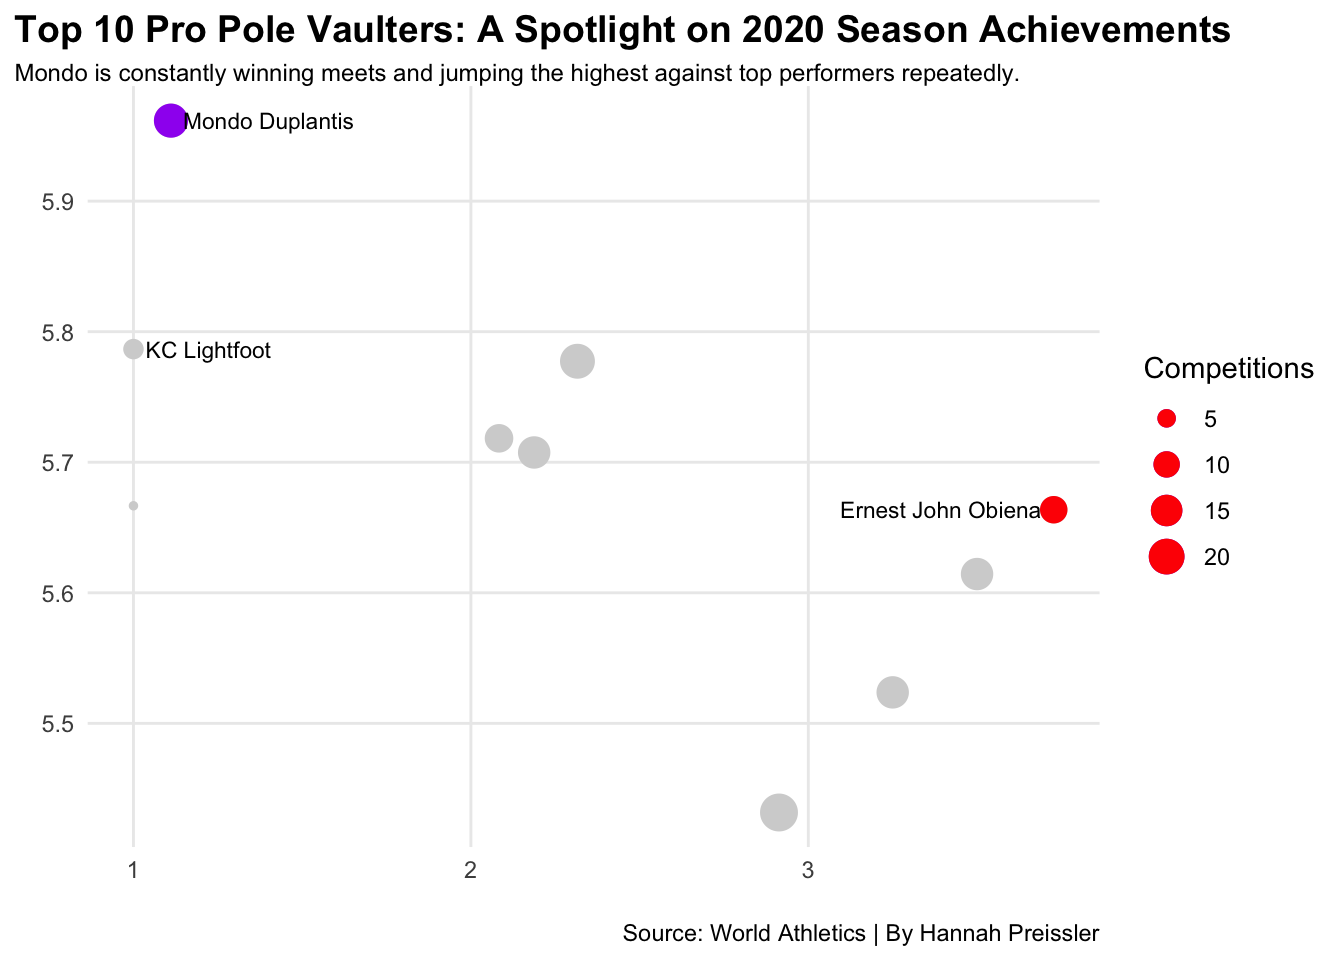
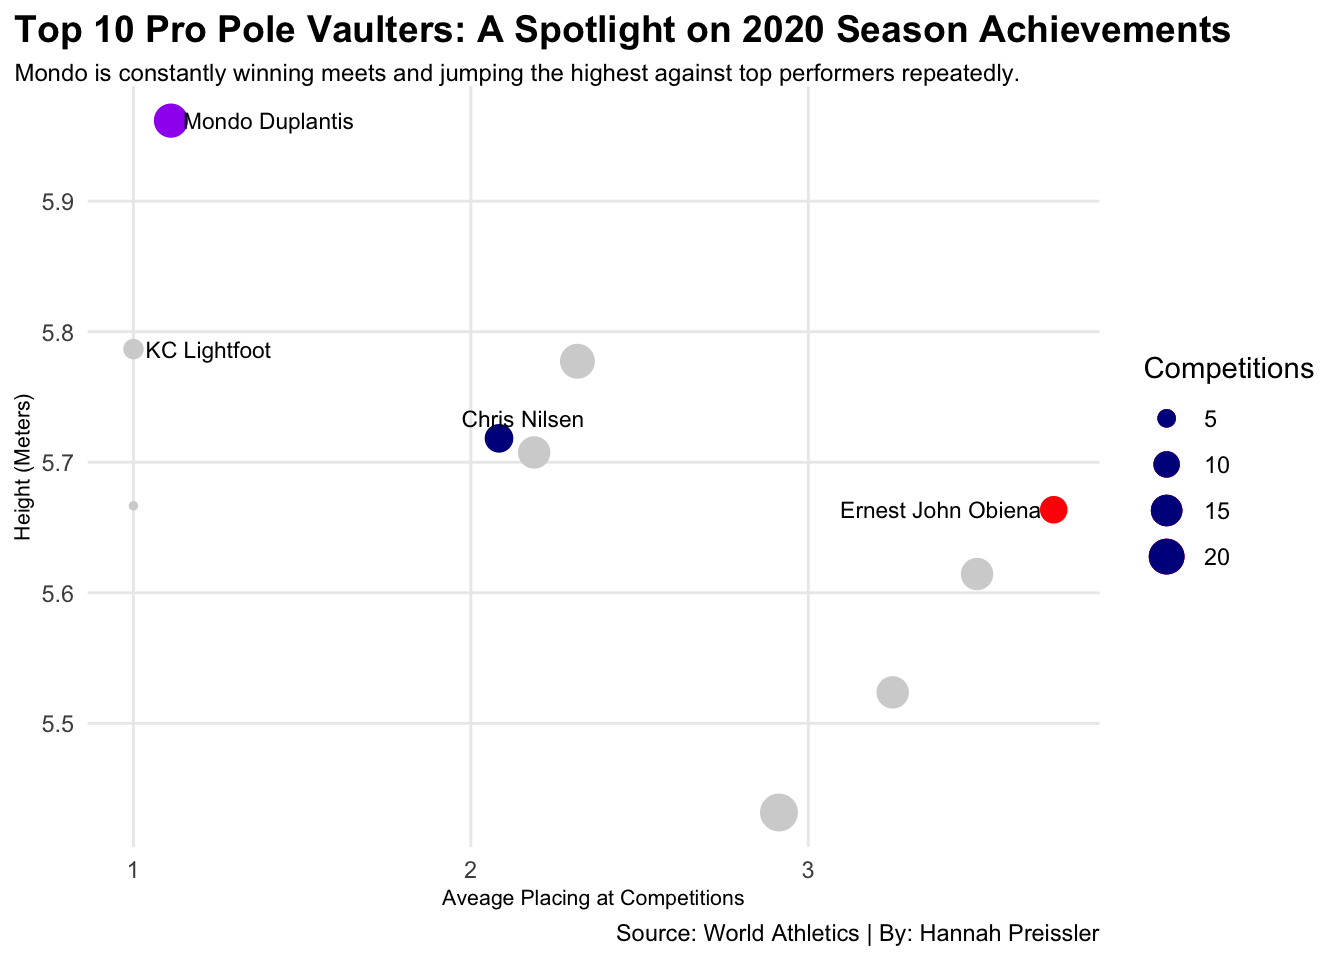
Draft #2

diff --git a/posts/mondo-is-the-best-pole-vaulter-in-the-world/index.html b/posts/mondo-is-the-best-pole-vaulter-in-the-world/index.html
@@ -9,7 +9,7 @@
 <meta name="author" content="Hananh Preissler">
 <meta name="dcterms.date" content="2023-12-03">
 
-<title>Hannah Preissler’s Sports Data BLog - Title</title>
+<title>Hannah Preissler’s Sports Data BLog - Why is Mondo Duplantis the Best Pole Vaulter in the World?</title>
 <style>
 code{white-space: pre-wrap;}
 span.smallcaps{font-variant: small-caps;}
@@ -137,7 +137,7 @@ pre > code.sourceCode > span > a:first-child::before { text-decoration: underlin
 <header id="title-block-header" class="quarto-title-block default page-columns page-full">
   <div class="quarto-title-banner page-columns page-full">
     <div class="quarto-title column-body">
-      <h1 class="title">Title</h1>
+      <h1 class="title">Why is Mondo Duplantis the Best Pole Vaulter in the World?</h1>
                                 <div class="quarto-categories">
                 <div class="quarto-category">trackfield</div>
                 <div class="quarto-category">polevault</div>
@@ -177,6 +177,9 @@ pre > code.sourceCode > span > a:first-child::before { text-decoration: underlin
 
 
 
+<p>Who is Armand ‘Mondo’ Duplantis?</p>
+<p>Mondo Duplantis is a Swedish-American pole vaulter taht has taken the sport to new hights, constantly raising the bar and breaking his own world records again and again. Mondo began his vaulting career at the young age of four. His father, Greg Duplantis, was an All-American pole vaulter at LSU and sparked Mondo’s passion at a very young age. His remarkable charted progression goes all the way back to when he was six years old. There is no other vaulter in the world that has a record this detailed.</p>
+<p>Let’s breakdown what makes Mondo the best pole vaulter in the world.</p>
 <div class="cell">
 <details>
 <summary>Code</summary>
@@ -240,7 +243,7 @@ pre > code.sourceCode > span > a:first-child::before { text-decoration: underlin
 <span id="cb1-58"><a href="#cb1-58" aria-hidden="true" tabindex="-1"></a>    <span class="at">subtitle =</span><span class="st">"Mondo's career highlighted by three distinct eras: pre-high school, the 6 meter barrier, and breaking the world record."</span>, </span>
 <span id="cb1-59"><a href="#cb1-59" aria-hidden="true" tabindex="-1"></a>    <span class="at">y=</span><span class="st">"Height in Meters"</span>, </span>
 <span id="cb1-60"><a href="#cb1-60" aria-hidden="true" tabindex="-1"></a>    <span class="at">x=</span><span class="st">""</span>,</span>
-<span id="cb1-61"><a href="#cb1-61" aria-hidden="true" tabindex="-1"></a>    <span class="at">caption=</span><span class="st">"Source: World Athletics | By Hannah Preissler"</span>) <span class="sc">+</span></span>
+<span id="cb1-61"><a href="#cb1-61" aria-hidden="true" tabindex="-1"></a>    <span class="at">caption=</span><span class="st">"Source: World Athletics | By: Hannah Preissler"</span>) <span class="sc">+</span></span>
 <span id="cb1-62"><a href="#cb1-62" aria-hidden="true" tabindex="-1"></a>  <span class="fu">theme_minimal</span>() <span class="sc">+</span></span>
 <span id="cb1-63"><a href="#cb1-63" aria-hidden="true" tabindex="-1"></a>  <span class="fu">theme</span>(</span>
 <span id="cb1-64"><a href="#cb1-64" aria-hidden="true" tabindex="-1"></a>    <span class="at">plot.title =</span> <span class="fu">element_text</span>(<span class="at">size =</span> <span class="dv">12</span>, <span class="at">face =</span> <span class="st">"bold"</span>),</span>
@@ -270,7 +273,7 @@ pre > code.sourceCode > span > a:first-child::before { text-decoration: underlin
 <span id="cb2-11"><a href="#cb2-11" aria-hidden="true" tabindex="-1"></a>mondocomps <span class="ot">&lt;-</span> competitionresults <span class="sc">|&gt;</span> </span>
 <span id="cb2-12"><a href="#cb2-12" aria-hidden="true" tabindex="-1"></a>  <span class="fu">filter</span>(Name <span class="sc">==</span> <span class="st">"Mondo Duplantis"</span>)</span>
 <span id="cb2-13"><a href="#cb2-13" aria-hidden="true" tabindex="-1"></a>chriscomps <span class="ot">&lt;-</span> competitionresults <span class="sc">|&gt;</span></span>
-<span id="cb2-14"><a href="#cb2-14" aria-hidden="true" tabindex="-1"></a>  <span class="fu">filter</span>(Name <span class="sc">==</span> <span class="st">"Chris Nilsen"</span>)</span>
+<span id="cb2-14"><a href="#cb2-14" aria-hidden="true" tabindex="-1"></a>  <span class="fu">filter</span>(<span class="fu">str_trim</span>(Name) <span class="sc">==</span> <span class="st">"Chris Nilsen"</span>)</span>
 <span id="cb2-15"><a href="#cb2-15" aria-hidden="true" tabindex="-1"></a>ernestcomps <span class="ot">&lt;-</span> competitionresults <span class="sc">|&gt;</span></span>
 <span id="cb2-16"><a href="#cb2-16" aria-hidden="true" tabindex="-1"></a>  <span class="fu">filter</span>(Name <span class="sc">==</span> <span class="st">"Ernest John Obiena"</span>)</span>
 <span id="cb2-17"><a href="#cb2-17" aria-hidden="true" tabindex="-1"></a>kccomps <span class="ot">&lt;-</span> competitionresults <span class="sc">|&gt;</span></span>
@@ -280,29 +283,29 @@ pre > code.sourceCode > span > a:first-child::before { text-decoration: underlin
 <span id="cb2-21"><a href="#cb2-21" aria-hidden="true" tabindex="-1"></a>  <span class="fu">geom_point</span>(<span class="at">data=</span>competitionresults,<span class="fu">aes</span>(<span class="at">x=</span>AvgPlace, <span class="at">y=</span>AvgResult, <span class="at">size=</span> Competitions), <span class="at">color=</span><span class="st">"lightgrey"</span>)<span class="sc">+</span></span>
 <span id="cb2-22"><a href="#cb2-22" aria-hidden="true" tabindex="-1"></a>  <span class="fu">geom_point</span>(<span class="at">data=</span>mondocomps, <span class="fu">aes</span>(<span class="at">x=</span>AvgPlace, <span class="at">y=</span>AvgResult, <span class="at">size=</span> Competitions), <span class="at">color=</span><span class="st">"purple"</span>)<span class="sc">+</span></span>
 <span id="cb2-23"><a href="#cb2-23" aria-hidden="true" tabindex="-1"></a>  <span class="fu">geom_point</span>(<span class="at">data=</span>ernestcomps, <span class="fu">aes</span>(<span class="at">x=</span>AvgPlace, <span class="at">y=</span>AvgResult, <span class="at">size=</span> Competitions), <span class="at">color=</span><span class="st">"red"</span>)<span class="sc">+</span></span>
-<span id="cb2-24"><a href="#cb2-24" aria-hidden="true" tabindex="-1"></a>  <span class="fu">geom_text_repel</span>(<span class="at">data=</span>mondocomps, <span class="fu">aes</span>(<span class="at">x=</span>AvgPlace, <span class="at">y=</span>AvgResult, <span class="at">label=</span>Name), <span class="at">size =</span> <span class="dv">3</span>) <span class="sc">+</span></span>
-<span id="cb2-25"><a href="#cb2-25" aria-hidden="true" tabindex="-1"></a>  <span class="fu">geom_text_repel</span>(<span class="at">data=</span>chriscomps, <span class="fu">aes</span>(<span class="at">x=</span>AvgPlace, <span class="at">y=</span>AvgResult, <span class="at">label=</span>Name), <span class="at">size =</span> <span class="dv">3</span>) <span class="sc">+</span></span>
-<span id="cb2-26"><a href="#cb2-26" aria-hidden="true" tabindex="-1"></a>  <span class="fu">geom_text_repel</span>(<span class="at">data=</span>ernestcomps, <span class="fu">aes</span>(<span class="at">x=</span>AvgPlace, <span class="at">y=</span>AvgResult, <span class="at">label=</span>Name), <span class="at">size =</span> <span class="dv">3</span>) <span class="sc">+</span></span>
-<span id="cb2-27"><a href="#cb2-27" aria-hidden="true" tabindex="-1"></a>  <span class="fu">geom_text_repel</span>(<span class="at">data=</span>kccomps, <span class="fu">aes</span>(<span class="at">x=</span>AvgPlace, <span class="at">y=</span>AvgResult, <span class="at">label=</span>Name), <span class="at">size =</span> <span class="dv">3</span>) <span class="sc">+</span></span>
-<span id="cb2-28"><a href="#cb2-28" aria-hidden="true" tabindex="-1"></a>    <span class="fu">labs</span>(<span class="at">title =</span> <span class="st">"Top 10 Pro Pole Vaulters: A Spotlight on 2020 Season Achievements"</span>, </span>
-<span id="cb2-29"><a href="#cb2-29" aria-hidden="true" tabindex="-1"></a>    <span class="at">subtitle =</span><span class="st">"Mondo is constantly winning meets and jumping the highest against top performers repeatedly."</span>, </span>
-<span id="cb2-30"><a href="#cb2-30" aria-hidden="true" tabindex="-1"></a>    <span class="at">y=</span><span class="st">""</span>, </span>
-<span id="cb2-31"><a href="#cb2-31" aria-hidden="true" tabindex="-1"></a>    <span class="at">x=</span><span class="st">""</span>,</span>
-<span id="cb2-32"><a href="#cb2-32" aria-hidden="true" tabindex="-1"></a>    <span class="at">caption=</span><span class="st">"Source: World Athletics | By Hannah Preissler"</span>) <span class="sc">+</span></span>
-<span id="cb2-33"><a href="#cb2-33" aria-hidden="true" tabindex="-1"></a>  <span class="fu">theme_minimal</span>() <span class="sc">+</span></span>
-<span id="cb2-34"><a href="#cb2-34" aria-hidden="true" tabindex="-1"></a>  <span class="fu">theme</span>(</span>
-<span id="cb2-35"><a href="#cb2-35" aria-hidden="true" tabindex="-1"></a>    <span class="at">plot.title =</span> <span class="fu">element_text</span>(<span class="at">size =</span> <span class="dv">14</span>, <span class="at">face =</span> <span class="st">"bold"</span>),</span>
-<span id="cb2-36"><a href="#cb2-36" aria-hidden="true" tabindex="-1"></a>    <span class="at">axis.title =</span> <span class="fu">element_text</span>(<span class="at">size =</span> <span class="dv">8</span>), </span>
-<span id="cb2-37"><a href="#cb2-37" aria-hidden="true" tabindex="-1"></a>    <span class="at">plot.subtitle =</span> <span class="fu">element_textbox_simple</span>(<span class="at">size=</span><span class="dv">9</span>), </span>
-<span id="cb2-38"><a href="#cb2-38" aria-hidden="true" tabindex="-1"></a>    <span class="at">panel.grid.minor =</span> <span class="fu">element_blank</span>(),</span>
-<span id="cb2-39"><a href="#cb2-39" aria-hidden="true" tabindex="-1"></a>    <span class="at">plot.title.position =</span> <span class="st">"plot"</span></span>
-<span id="cb2-40"><a href="#cb2-40" aria-hidden="true" tabindex="-1"></a>  )</span></code><button title="Copy to Clipboard" class="code-copy-button"><i class="bi"></i></button></pre></div>
+<span id="cb2-24"><a href="#cb2-24" aria-hidden="true" tabindex="-1"></a>   <span class="fu">geom_point</span>(<span class="at">data=</span>chriscomps, <span class="fu">aes</span>(<span class="at">x=</span>AvgPlace, <span class="at">y=</span>AvgResult, <span class="at">size=</span> Competitions), <span class="at">color=</span><span class="st">"darkblue"</span>)<span class="sc">+</span></span>
+<span id="cb2-25"><a href="#cb2-25" aria-hidden="true" tabindex="-1"></a>  <span class="fu">geom_text_repel</span>(<span class="at">data=</span>mondocomps, <span class="fu">aes</span>(<span class="at">x=</span>AvgPlace, <span class="at">y=</span>AvgResult, <span class="at">label=</span>Name), <span class="at">size =</span> <span class="dv">3</span>) <span class="sc">+</span></span>
+<span id="cb2-26"><a href="#cb2-26" aria-hidden="true" tabindex="-1"></a>  <span class="fu">geom_text_repel</span>(<span class="at">data=</span>chriscomps, <span class="fu">aes</span>(<span class="at">x=</span>AvgPlace, <span class="at">y=</span>AvgResult, <span class="at">label=</span>Name), <span class="at">size =</span> <span class="dv">3</span>) <span class="sc">+</span></span>
+<span id="cb2-27"><a href="#cb2-27" aria-hidden="true" tabindex="-1"></a>  <span class="fu">geom_text_repel</span>(<span class="at">data=</span>ernestcomps, <span class="fu">aes</span>(<span class="at">x=</span>AvgPlace, <span class="at">y=</span>AvgResult, <span class="at">label=</span>Name), <span class="at">size =</span> <span class="dv">3</span>) <span class="sc">+</span></span>
+<span id="cb2-28"><a href="#cb2-28" aria-hidden="true" tabindex="-1"></a>  <span class="fu">geom_text_repel</span>(<span class="at">data=</span>kccomps, <span class="fu">aes</span>(<span class="at">x=</span>AvgPlace, <span class="at">y=</span>AvgResult, <span class="at">label=</span>Name), <span class="at">size =</span> <span class="dv">3</span>) <span class="sc">+</span></span>
+<span id="cb2-29"><a href="#cb2-29" aria-hidden="true" tabindex="-1"></a>    <span class="fu">labs</span>(<span class="at">title =</span> <span class="st">"Top 10 Pro Pole Vaulters: A Spotlight on 2020 Season Achievements"</span>, </span>
+<span id="cb2-30"><a href="#cb2-30" aria-hidden="true" tabindex="-1"></a>    <span class="at">subtitle =</span><span class="st">"Mondo is constantly winning meets and jumping the highest against top performers repeatedly."</span>, </span>
+<span id="cb2-31"><a href="#cb2-31" aria-hidden="true" tabindex="-1"></a>    <span class="at">y=</span><span class="st">"Height (Meters)"</span>, </span>
+<span id="cb2-32"><a href="#cb2-32" aria-hidden="true" tabindex="-1"></a>    <span class="at">x=</span><span class="st">"Aveage Placing at Competitions"</span>,</span>
+<span id="cb2-33"><a href="#cb2-33" aria-hidden="true" tabindex="-1"></a>    <span class="at">caption=</span><span class="st">"Source: World Athletics | By: Hannah Preissler"</span>) <span class="sc">+</span></span>
+<span id="cb2-34"><a href="#cb2-34" aria-hidden="true" tabindex="-1"></a>  <span class="fu">theme_minimal</span>() <span class="sc">+</span></span>
+<span id="cb2-35"><a href="#cb2-35" aria-hidden="true" tabindex="-1"></a>  <span class="fu">theme</span>(</span>
+<span id="cb2-36"><a href="#cb2-36" aria-hidden="true" tabindex="-1"></a>    <span class="at">plot.title =</span> <span class="fu">element_text</span>(<span class="at">size =</span> <span class="dv">14</span>, <span class="at">face =</span> <span class="st">"bold"</span>),</span>
+<span id="cb2-37"><a href="#cb2-37" aria-hidden="true" tabindex="-1"></a>    <span class="at">axis.title =</span> <span class="fu">element_text</span>(<span class="at">size =</span> <span class="dv">8</span>), </span>
+<span id="cb2-38"><a href="#cb2-38" aria-hidden="true" tabindex="-1"></a>    <span class="at">plot.subtitle =</span> <span class="fu">element_textbox_simple</span>(<span class="at">size=</span><span class="dv">9</span>), </span>
+<span id="cb2-39"><a href="#cb2-39" aria-hidden="true" tabindex="-1"></a>    <span class="at">panel.grid.minor =</span> <span class="fu">element_blank</span>(),</span>
+<span id="cb2-40"><a href="#cb2-40" aria-hidden="true" tabindex="-1"></a>    <span class="at">plot.title.position =</span> <span class="st">"plot"</span></span>
+<span id="cb2-41"><a href="#cb2-41" aria-hidden="true" tabindex="-1"></a>  )</span></code><button title="Copy to Clipboard" class="code-copy-button"><i class="bi"></i></button></pre></div>
 </details>
 <div class="cell-output-display">
 <p><img src="index_files/figure-html/unnamed-chunk-2-1.png" class="img-fluid" width="672"></p>
 </div>
 </div>
-<p>Add label to mondo, color erenest and chris</p>
 <div class="cell">
 <details>
 <summary>Code</summary>
@@ -311,30 +314,33 @@ pre > code.sourceCode > span > a:first-child::before { text-decoration: underlin
 <span id="cb3-3"><a href="#cb3-3" aria-hidden="true" tabindex="-1"></a>  <span class="fu">mutate</span>(<span class="at">Meters =</span> <span class="fu">as.numeric</span>(<span class="fu">gsub</span>(<span class="st">" m"</span>,<span class="st">""</span>, Meters)))</span>
 <span id="cb3-4"><a href="#cb3-4" aria-hidden="true" tabindex="-1"></a></span>
 <span id="cb3-5"><a href="#cb3-5" aria-hidden="true" tabindex="-1"></a></span>
-<span id="cb3-6"><a href="#cb3-6" aria-hidden="true" tabindex="-1"></a><span class="fu">ggplot</span>() <span class="sc">+</span> </span>
-<span id="cb3-7"><a href="#cb3-7" aria-hidden="true" tabindex="-1"></a>  <span class="fu">geom_lollipop</span>(</span>
-<span id="cb3-8"><a href="#cb3-8" aria-hidden="true" tabindex="-1"></a>    <span class="at">data=</span>worldrecord, </span>
-<span id="cb3-9"><a href="#cb3-9" aria-hidden="true" tabindex="-1"></a>    <span class="fu">aes</span>(<span class="at">y=</span>Meters, <span class="at">x=</span>Date), </span>
-<span id="cb3-10"><a href="#cb3-10" aria-hidden="true" tabindex="-1"></a>    <span class="at">horizontal =</span> <span class="cn">FALSE</span>)<span class="sc">+</span></span>
-<span id="cb3-11"><a href="#cb3-11" aria-hidden="true" tabindex="-1"></a>  <span class="fu">labs</span>(<span class="at">title =</span> <span class="st">"Title"</span>, </span>
-<span id="cb3-12"><a href="#cb3-12" aria-hidden="true" tabindex="-1"></a>    <span class="at">subtitle =</span><span class="st">"Title"</span>, </span>
-<span id="cb3-13"><a href="#cb3-13" aria-hidden="true" tabindex="-1"></a>    <span class="at">y=</span><span class="st">""</span>, </span>
-<span id="cb3-14"><a href="#cb3-14" aria-hidden="true" tabindex="-1"></a>    <span class="at">x=</span><span class="st">""</span>,</span>
-<span id="cb3-15"><a href="#cb3-15" aria-hidden="true" tabindex="-1"></a>    <span class="at">caption=</span><span class="st">"Source: World Athletics | By Hannah Preissler"</span>) <span class="sc">+</span></span>
-<span id="cb3-16"><a href="#cb3-16" aria-hidden="true" tabindex="-1"></a>  <span class="fu">theme_minimal</span>() <span class="sc">+</span></span>
-<span id="cb3-17"><a href="#cb3-17" aria-hidden="true" tabindex="-1"></a>  <span class="fu">theme</span>(</span>
-<span id="cb3-18"><a href="#cb3-18" aria-hidden="true" tabindex="-1"></a>    <span class="at">plot.title =</span> <span class="fu">element_text</span>(<span class="at">size =</span> <span class="dv">14</span>, <span class="at">face =</span> <span class="st">"bold"</span>),</span>
-<span id="cb3-19"><a href="#cb3-19" aria-hidden="true" tabindex="-1"></a>    <span class="at">axis.title =</span> <span class="fu">element_text</span>(<span class="at">size =</span> <span class="dv">8</span>), </span>
-<span id="cb3-20"><a href="#cb3-20" aria-hidden="true" tabindex="-1"></a>    <span class="at">plot.subtitle =</span> <span class="fu">element_textbox_simple</span>(<span class="at">size=</span><span class="dv">9</span>), </span>
-<span id="cb3-21"><a href="#cb3-21" aria-hidden="true" tabindex="-1"></a>    <span class="at">panel.grid.minor =</span> <span class="fu">element_blank</span>(),</span>
-<span id="cb3-22"><a href="#cb3-22" aria-hidden="true" tabindex="-1"></a>    <span class="at">plot.title.position =</span> <span class="st">"plot"</span></span>
-<span id="cb3-23"><a href="#cb3-23" aria-hidden="true" tabindex="-1"></a>  )</span></code><button title="Copy to Clipboard" class="code-copy-button"><i class="bi"></i></button></pre></div>
+<span id="cb3-6"><a href="#cb3-6" aria-hidden="true" tabindex="-1"></a>sergeywr <span class="ot">&lt;-</span> worldrecord <span class="sc">|&gt;</span> </span>
+<span id="cb3-7"><a href="#cb3-7" aria-hidden="true" tabindex="-1"></a>  <span class="fu">filter</span>(Athlete <span class="sc">==</span> <span class="st">"Sergey Bubka"</span>)</span>
+<span id="cb3-8"><a href="#cb3-8" aria-hidden="true" tabindex="-1"></a>mondowr <span class="ot">&lt;-</span> worldrecord <span class="sc">|&gt;</span></span>
+<span id="cb3-9"><a href="#cb3-9" aria-hidden="true" tabindex="-1"></a>  <span class="fu">filter</span>(Athlete <span class="sc">==</span> <span class="st">"Armand Duplantis"</span>)</span>
+<span id="cb3-10"><a href="#cb3-10" aria-hidden="true" tabindex="-1"></a></span>
+<span id="cb3-11"><a href="#cb3-11" aria-hidden="true" tabindex="-1"></a><span class="fu">ggplot</span>() <span class="sc">+</span> </span>
+<span id="cb3-12"><a href="#cb3-12" aria-hidden="true" tabindex="-1"></a>  <span class="fu">geom_lollipop</span>(<span class="at">data=</span>worldrecord, <span class="fu">aes</span>(<span class="at">y=</span>Meters, <span class="at">x=</span>Date), <span class="at">horizontal =</span> <span class="cn">FALSE</span>, <span class="at">color =</span><span class="st">"grey"</span>)<span class="sc">+</span></span>
+<span id="cb3-13"><a href="#cb3-13" aria-hidden="true" tabindex="-1"></a>  <span class="fu">geom_lollipop</span>(<span class="at">data=</span>sergeywr, <span class="fu">aes</span>(<span class="at">y=</span>Meters, <span class="at">x=</span>Date), <span class="at">horizontal =</span> <span class="cn">FALSE</span>, <span class="at">color=</span><span class="st">"lightblue"</span>)<span class="sc">+</span></span>
+<span id="cb3-14"><a href="#cb3-14" aria-hidden="true" tabindex="-1"></a>   <span class="fu">geom_lollipop</span>(<span class="at">data=</span>mondowr, <span class="fu">aes</span>(<span class="at">y=</span>Meters, <span class="at">x=</span>Date), <span class="at">horizontal =</span> <span class="cn">FALSE</span>, <span class="at">color=</span><span class="st">"darkblue"</span>)<span class="sc">+</span></span>
+<span id="cb3-15"><a href="#cb3-15" aria-hidden="true" tabindex="-1"></a>  <span class="fu">labs</span>(<span class="at">title =</span> <span class="st">"Exploring the Progression of the Pole Vault World Record Holders"</span>, </span>
+<span id="cb3-16"><a href="#cb3-16" aria-hidden="true" tabindex="-1"></a>    <span class="at">subtitle =</span><span class="st">"Sergey Bubka and Mondo Duplantis have held the WR the most times of anyone."</span>, </span>
+<span id="cb3-17"><a href="#cb3-17" aria-hidden="true" tabindex="-1"></a>    <span class="at">y=</span><span class="st">"Height (Meters)"</span>, </span>
+<span id="cb3-18"><a href="#cb3-18" aria-hidden="true" tabindex="-1"></a>    <span class="at">x=</span><span class="st">""</span>,</span>
+<span id="cb3-19"><a href="#cb3-19" aria-hidden="true" tabindex="-1"></a>    <span class="at">caption=</span><span class="st">"Source: World Athletics | By: Hannah Preissler"</span>) <span class="sc">+</span></span>
+<span id="cb3-20"><a href="#cb3-20" aria-hidden="true" tabindex="-1"></a>  <span class="fu">theme_minimal</span>() <span class="sc">+</span></span>
+<span id="cb3-21"><a href="#cb3-21" aria-hidden="true" tabindex="-1"></a>  <span class="fu">theme</span>(</span>
+<span id="cb3-22"><a href="#cb3-22" aria-hidden="true" tabindex="-1"></a>    <span class="at">plot.title =</span> <span class="fu">element_text</span>(<span class="at">size =</span> <span class="dv">14</span>, <span class="at">face =</span> <span class="st">"bold"</span>),</span>
+<span id="cb3-23"><a href="#cb3-23" aria-hidden="true" tabindex="-1"></a>    <span class="at">axis.title =</span> <span class="fu">element_text</span>(<span class="at">size =</span> <span class="dv">8</span>), </span>
+<span id="cb3-24"><a href="#cb3-24" aria-hidden="true" tabindex="-1"></a>    <span class="at">plot.subtitle =</span> <span class="fu">element_textbox_simple</span>(<span class="at">size=</span><span class="dv">9</span>), </span>
+<span id="cb3-25"><a href="#cb3-25" aria-hidden="true" tabindex="-1"></a>    <span class="at">panel.grid.minor =</span> <span class="fu">element_blank</span>(),</span>
+<span id="cb3-26"><a href="#cb3-26" aria-hidden="true" tabindex="-1"></a>    <span class="at">plot.title.position =</span> <span class="st">"plot"</span></span>
+<span id="cb3-27"><a href="#cb3-27" aria-hidden="true" tabindex="-1"></a>  )</span></code><button title="Copy to Clipboard" class="code-copy-button"><i class="bi"></i></button></pre></div>
 </details>
 <div class="cell-output-display">
 <p><img src="index_files/figure-html/unnamed-chunk-3-1.png" class="img-fluid" width="672"></p>
 </div>
 </div>
-<p>sdlkslk &lt;- worldrecord |&gt; filter(slkdlskjlskj)</p>
 
 
 

diff --git a/index.html b/index.html
@@ -165,14 +165,14 @@ ul.task-list li input[type="checkbox"] {
 
 <div class="quarto-listing quarto-listing-container-default" id="listing-listing">
 <div class="list quarto-listing-default">
-<div class="quarto-post image-right" data-index="0" data-categories="trackfield,polevault,analysis" data-listing-date-sort="1701583200000" data-listing-file-modified-sort="1701485222890" data-listing-date-modified-sort="NaN" data-listing-reading-time-sort="4">
+<div class="quarto-post image-right" data-index="0" data-categories="trackfield,polevault,analysis" data-listing-date-sort="1701583200000" data-listing-file-modified-sort="1701563894094" data-listing-date-modified-sort="NaN" data-listing-reading-time-sort="5">
 <div class="thumbnail">
-<p><a href="./posts/mondo-is-the-best-pole-vaulter-in-the-world/index.html"> <img src="./posts/mondo-is-the-best-pole-vaulter-in-the-world/chart.png" class="thumbnail-image"> </a></p>
+<p><a href="./posts/mondo-is-the-best-pole-vaulter-in-the-world/index.html"> <img src="./posts/mondo-is-the-best-pole-vaulter-in-the-world/chart2.png" class="thumbnail-image"> </a></p>
 </div>
 <div class="body">
 <a href="./posts/mondo-is-the-best-pole-vaulter-in-the-world/index.html">
 <h3 class="no-anchor listing-title">
-Title
+Why is Mondo Duplantis the Best Pole Vaulter in the World?
 </h3>
 <div class="listing-subtitle">
 
@@ -191,7 +191,7 @@ analysis
 </div>
 <a href="./posts/mondo-is-the-best-pole-vaulter-in-the-world/index.html">
 <div class="listing-description">
-Add label to mondo, color erenest and chris
+Who is Armand ‘Mondo’ Duplantis?
 </div>
 </a>
 </div>
@@ -206,7 +206,7 @@ Hananh Preissler
 </a>
 </div>
 </div>
-<div class="quarto-post image-right" data-index="1" data-categories="huskers,volleyball,analysis" data-listing-date-sort="1699423200000" data-listing-file-modified-sort="1701099946569" data-listing-date-modified-sort="NaN" data-listing-reading-time-sort="7">
+<div class="quarto-post image-right" data-index="1" data-categories="huskers,volleyball,analysis" data-listing-date-sort="1699423200000" data-listing-file-modified-sort="1701485565782" data-listing-date-modified-sort="NaN" data-listing-reading-time-sort="7">
 <div class="thumbnail">
 <p><a href="./posts/is-nebraska-volleyballs-success-attributed-to-offense-or-defense/index.html"> <img src="./posts/is-nebraska-volleyballs-success-attributed-to-offense-or-defense/chart.png" class="thumbnail-image"> </a></p>
 </div>
